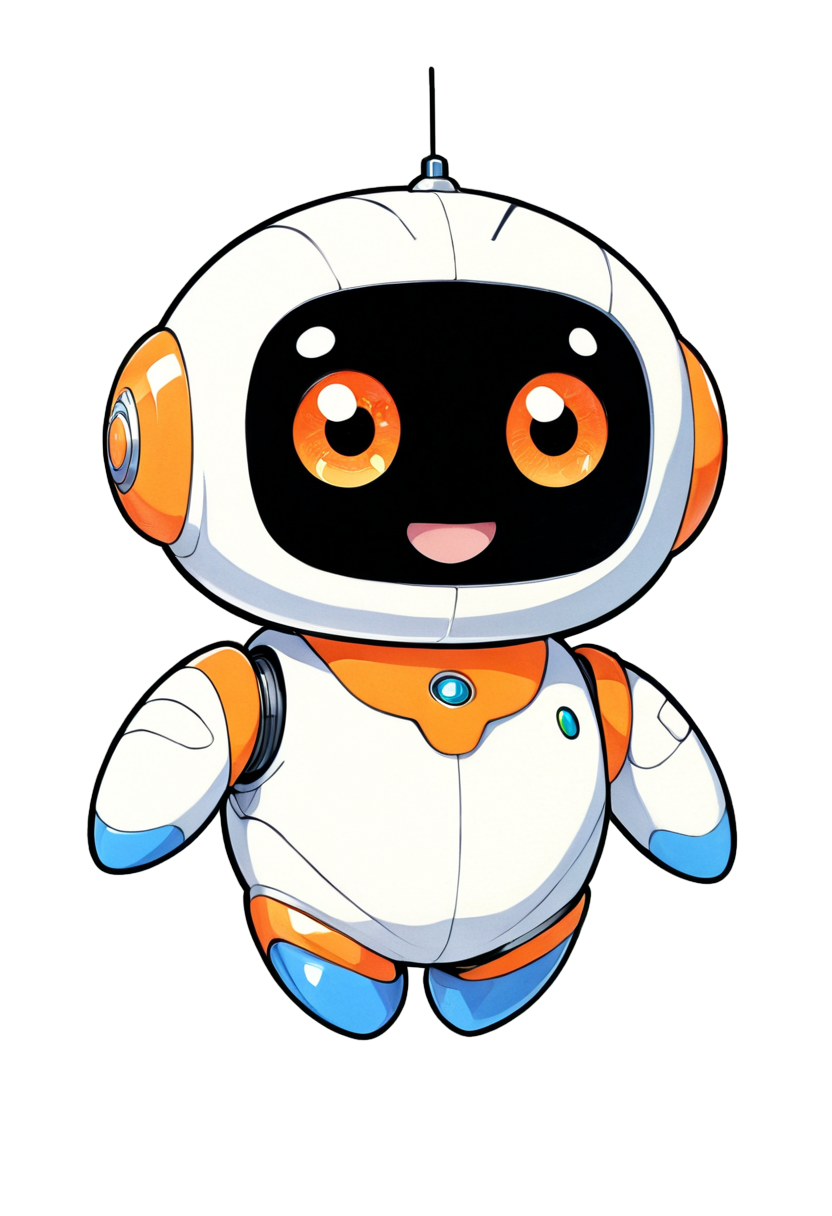
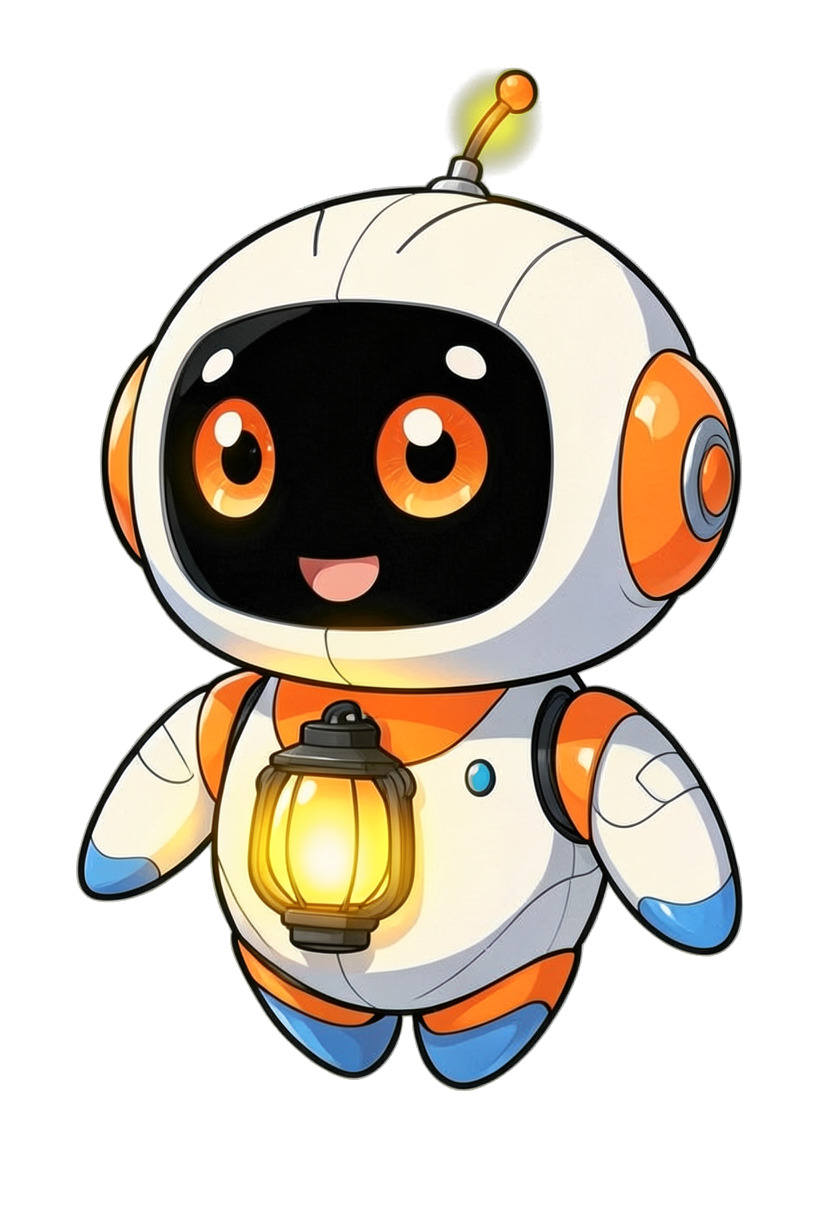
feat(portraits): 立ち絵 v2 ── 解説役バストアップ・聞き役ランタン意匠（imagegen、主人選択 2026-09-26）── Wave 2 完了条件 2
- public/portraits/narrator-default.png・listener-default.png を imagegen（FLUX.2 [klein] 4B、klein_edit）で
  作った透過 PNG（832x1216、縦長・アルファあり）に差し替え。主人「推奨でGO」→ 解説役 s2・聞き役ランタン s2
- 全身版 materials/portraits/narrator-v2-full.png・listener-v2-full.png（聞き役はランタン s2 を参照に seed 2 で再生成）
- 原本（緑背景）4 枚と生成記録 .json、生成記録 README.md（モデル・プロンプト・seed・加工）
- docs/conventions/portrait-assets.md の台帳を v2 で埋めた（作画者・原本所在・更新日付・版数）

diff --git a/materials/portraits/README.md b/materials/portraits/README.md
@@ -1,0 +1,75 @@
+# materials/portraits — 立ち絵の原本と生成記録（v2、2026-09-26）
+
+Laterna の立ち絵 2 名（解説役 `narrator`・聞き役 `listener`）の v2。Laterna の画像環境 `imagegen/`（ComfyUI v0.37.0、FLUX.2 [klein] 4B fp8、参照画像つき編集ワークフロー `klein_edit`）で 2026-09-26 に生成した。
+**自作オリジナル。**VOICEVOX 公式キャラクターのデザインの模写・トレースはしていない（`docs/conventions/portrait-assets.md` §0）。台帳は同ファイル §1。
+
+- 方針（`goal.md` Wave 2「立ち絵の方針」）：2 人の役割と見た目は v1 を引き継ぐ。解説役はバストアップで顔を大きく取る。聞き役のロボットにランタンの意匠（頭頂のランタン型アンテナ、胸の琥珀色に光るコア）を足す。
+- 候補：解説役バストアップ s1〜s3、聞き役ランタン版 s1〜s3・既定版 s1〜s2、全身版（`imagegen/output/portraits/`、git 管理外）。**主人の選択（2026-09-26、チャット「推奨でGO」）：解説役バストアップ s2、聞き役ランタン版 s2。**聞き役の全身版は、選ばれた s2 を参照画像にして seed 1〜3 で作り直し、seed 2 を採用した（最初の全身版 2 枚はランタンが体から離れて描かれていた）。
+- v1（ラフ）：`narrator-draft-v1.kra`・`listener-draft-v1.kra` と、その書き出し `*-draft-v1.png`／`*-draft-v1_trans.png`（Kyozai-Athanor から持ち込み）。v1 の `public/portraits/*.png` は git の履歴（commit `e81e6b4` まで）にある。
+
+## 一覧
+
+| 用途 | 配置（透過 PNG） | 原本（緑背景、生成そのまま） | 生成記録 |
+|---|---|---|---|
+| 解説役（narrator）バストアップ ── 本番 | `public/portraits/narrator-default.png` | `narrator-v2-bust-raw.png` | `narrator-v2-bust-raw.png.json` |
+| 解説役（narrator）全身 | `materials/portraits/narrator-v2-full.png` | `narrator-v2-full-raw.png` | `narrator-v2-full-raw.png.json` |
+| 聞き役（listener）バストアップ（ランタン意匠）── 本番 | `public/portraits/listener-default.png` | `listener-v2-bust-raw.png` | `listener-v2-bust-raw.png.json` |
+| 聞き役（listener）全身（ランタン意匠） | `materials/portraits/listener-v2-full.png` | `listener-v2-full-raw.png` | `listener-v2-full-raw.png.json` |
+
+## 加工（共通）
+
+原本（緑背景）から透過 PNG を作る。ImageMagick 7（`magick`）の 3 行。緑らしさ `g - max(r,b)` を 0〜0.6 で不透明度に写し（0.6 以上は透明）、残った縁の緑は G を `max(r,b)` に落として消す（despill）。寸法は変えない（832×1216）。
+
+```
+magick <原本> -alpha off -colorspace sRGB -fx "1 - min(1, max(0, (u.g - max(u.r,u.b))/0.6))" mask.png
+magick <原本> -alpha off -channel G -fx "u.g > max(u.r,u.b) ? max(u.r,u.b) : u.g" +channel despill.png
+magick despill.png mask.png -alpha off -compose CopyOpacity -composite <出力>
+```
+
+参照画像（v1 の平坦化）の作り方：`magick <v1 の透過 PNG> -background "#00FF00" -flatten <ref>.png`（2026-09-26 に `magick compare -metric AE` で差 0 を確認）。
+
+## 各立ち絵の記録
+
+### 解説役（narrator）バストアップ ── 本番（`narrator-v2-bust-raw.png`）
+
+- **モデル**：`flux-2-klein-4b-fp8.safetensors`（FLUX.2 [klein] 4B fp8、Apache-2.0。`imagegen/versions/models.json`）。ComfyUI 0.37.0、PyTorch 2.11.0+cu130
+- **ワークフロー**：`klein_edit`（`imagegen/workflows/klein_edit.json`）
[1 lines of base64/hex data omitted]
+- **プロンプト**：Bust-up portrait of the same character as the reference image: a young man with short dark navy hair, black-rimmed glasses, a gentle closed-mouth smile, white collared shirt, blue cardigan, and a lanyard with an ID card. Waist-up framing with the face large and clearly visible, three-quarter view turned slightly to the viewer's right, eyes open, friendly calm expression. Clean anime illustration style with flat shading and clean lineart, same colors as the reference. Plain solid bright green background, no other objects, no text.
+- **seed**：2、832×1216、生成 2026-09-26T20:33:00+09:00（6.97 秒）、prompt_id `8ca818a5-ed51-4865-8e99-757d2caa51d3`
[2 lines of base64/hex data omitted]
+
+### 解説役（narrator）全身（`narrator-v2-full-raw.png`）
+
+- **モデル**：`flux-2-klein-4b-fp8.safetensors`（FLUX.2 [klein] 4B fp8、Apache-2.0。`imagegen/versions/models.json`）。ComfyUI 0.37.0、PyTorch 2.11.0+cu130
+- **ワークフロー**：`klein_edit`（`imagegen/workflows/klein_edit.json`）
[1 lines of base64/hex data omitted]
+- **プロンプト**：Full-body standing portrait of the same character as the reference image: a young man with short dark navy hair, black-rimmed glasses, a gentle closed-mouth smile, white collared shirt, blue cardigan, lanyard with an ID card, dark slacks and sneakers. Whole body visible from head to shoes with small margins, standing straight with arms relaxed, three-quarter view turned slightly to the viewer's right. Clean anime illustration style with flat shading and clean lineart, same colors as the reference. Plain solid bright green background, no other objects, no text.
+- **seed**：2、832×1216、生成 2026-09-26T20:33:59+09:00（6.97 秒）、prompt_id `40aa9406-b25f-4862-98ec-83f7b12c0859`
[2 lines of base64/hex data omitted]
+
+### 聞き役（listener）バストアップ（ランタン意匠）── 本番（`listener-v2-bust-raw.png`）
+
+- **モデル**：`flux-2-klein-4b-fp8.safetensors`（FLUX.2 [klein] 4B fp8、Apache-2.0。`imagegen/versions/models.json`）。ComfyUI 0.37.0、PyTorch 2.11.0+cu130
+- **ワークフロー**：`klein_edit`（`imagegen/workflows/klein_edit.json`）
[1 lines of base64/hex data omitted]
+- **プロンプト**：The same small floating robot mascot as the reference image (white round body, black glossy screen face with two big glowing orange eyes and a small smiling mouth, orange ear discs, white body with an orange chest panel and blue accents), redesigned with a lantern motif: the antenna on top of the head ends in a small glowing amber lantern, and the chest panel holds a glowing amber lantern-like core. Same proportions and colors otherwise. Framed close with the head and upper body large, three-quarter view turned slightly to the viewer's left, eyes open. Clean anime illustration style with flat shading and clean lineart. Plain solid bright green background, no other objects, no text.
+- **seed**：2、832×1216、生成 2026-09-26T20:33:23+09:00（7.02 秒）、prompt_id `a8c1262d-63ce-4fd6-8627-5a1765a6c1a3`
[2 lines of base64/hex data omitted]
+
+### 聞き役（listener）全身（ランタン意匠）（`listener-v2-full-raw.png`）
+
+- **モデル**：`flux-2-klein-4b-fp8.safetensors`（FLUX.2 [klein] 4B fp8、Apache-2.0。`imagegen/versions/models.json`）。ComfyUI 0.37.0、PyTorch 2.11.0+cu130
+- **ワークフロー**：`klein_edit`（`imagegen/workflows/klein_edit.json`）
[1 lines of base64/hex data omitted]
+- **プロンプト**：Full-body view of the same small floating robot mascot as the reference image, keeping its design exactly: white round body, black glossy screen face with two big glowing orange eyes and a small smiling mouth, orange ear discs, orange chest panel and blue accents, a short antenna on top of the head ending in a small glowing amber lantern bulb, and a glowing amber lantern held at the chest as its core. Whole robot visible from the antenna tip to the feet with generous margins around it, floating, three-quarter view turned slightly to the viewer's left, eyes open. No additional lanterns, nothing detached from the body. Clean anime illustration style with flat shading and clean lineart, same colors as the reference. Plain solid bright green background, no other objects, no text.
+- **seed**：2、832×1216、生成 2026-09-26T21:18:16+09:00（6.84 秒）、prompt_id `5290288d-d612-4446-aa5c-86afefe8cb09`
[2 lines of base64/hex data omitted]
+
+## 差し替えるとき
+
+`docs/conventions/portrait-assets.md` §1 の表を上書き更新し（行は足さない）、原本と `.json` をここに置き、本ファイルに記録を足す。`speaker-profiles.yaml` の `portrait.asset_key` は変えない。

diff --git a/docs/conventions/portrait-assets.md b/docs/conventions/portrait-assets.md
@@ -18,9 +18,11 @@ CC BY 4.0 の適用範囲に含めてよい MAY。
 
 | キャラ名（asset_key） | 作画者 | 原本所在 | 配置パス | 更新日付 | 版数 / 備考 |
 |---|---|---|---|---|---|
-| narrator-default | （未記入） | （未記入） | `public/portraits/narrator-default.png` | （未納品） | v1（ラフ・仮絵可、T29 完了条件） |
-| listener-default | （未記入） | （未記入） | `public/portraits/listener-default.png` | （未納品） | v1（ラフ・仮絵可、T29 完了条件） |
+| narrator-default | Claude（Laterna の imagegen、FLUX.2 [klein] 4B で生成。主人の指示と選択 2026-09-26） | `materials/portraits/narrator-v2-bust-raw.png`（緑背景の生成原本。記録 `narrator-v2-bust-raw.png.json`・`materials/portraits/README.md`） | `public/portraits/narrator-default.png` | 2026-09-26 | v2（v1 ラフ（`narrator-draft-v1.kra`）→ v2 バストアップの生成画、2026-09-26 差し替え。全身版 `materials/portraits/narrator-v2-full.png`） |
+| listener-default | Claude（Laterna の imagegen、FLUX.2 [klein] 4B で生成。主人の指示と選択 2026-09-26） | `materials/portraits/listener-v2-bust-raw.png`（緑背景の生成原本。記録 `listener-v2-bust-raw.png.json`・`materials/portraits/README.md`） | `public/portraits/listener-default.png` | 2026-09-26 | v2（v1 ラフ（`listener-draft-v1.kra`）→ v2 ランタン意匠（頭頂のランタン型アンテナ・胸のランタン）の生成画、2026-09-26 差し替え。全身版 `materials/portraits/listener-v2-full.png`） |
 
+> 2026-09-26（Laterna Wave 2）：v2 を記入した。生成の記録（モデル・プロンプト・seed・加工）は `materials/portraits/README.md`。
+>
 > 本テーブルは T20 時点でプレースホルダとして作成する。T29（ユーザー立ち絵納品）完了時、
 > 納品者（作画者）・原本ファイルの所在・実際の更新日付・版数を追記すること MUST
 > （design §11.3「バージョン記録: 使用した立ち絵素材のデザイン版数を記録する SHOULD」）。
